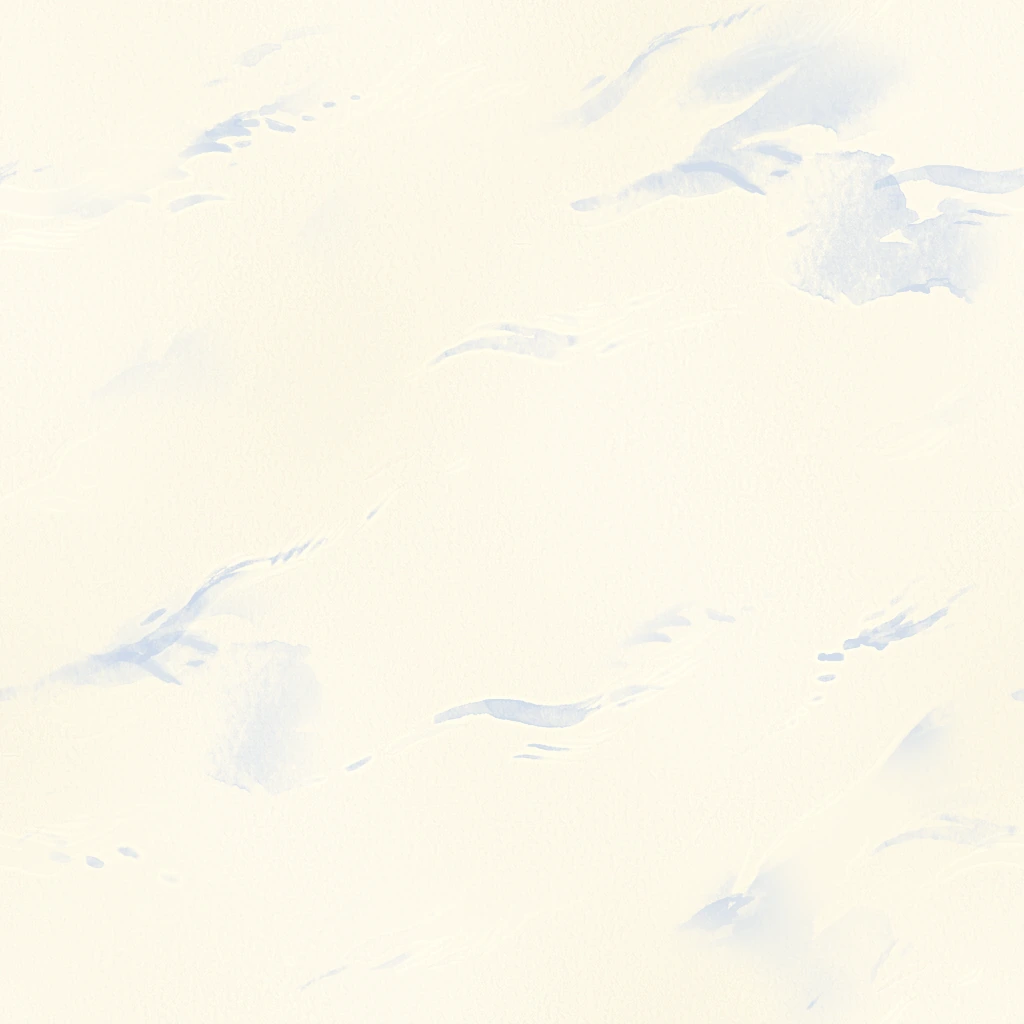
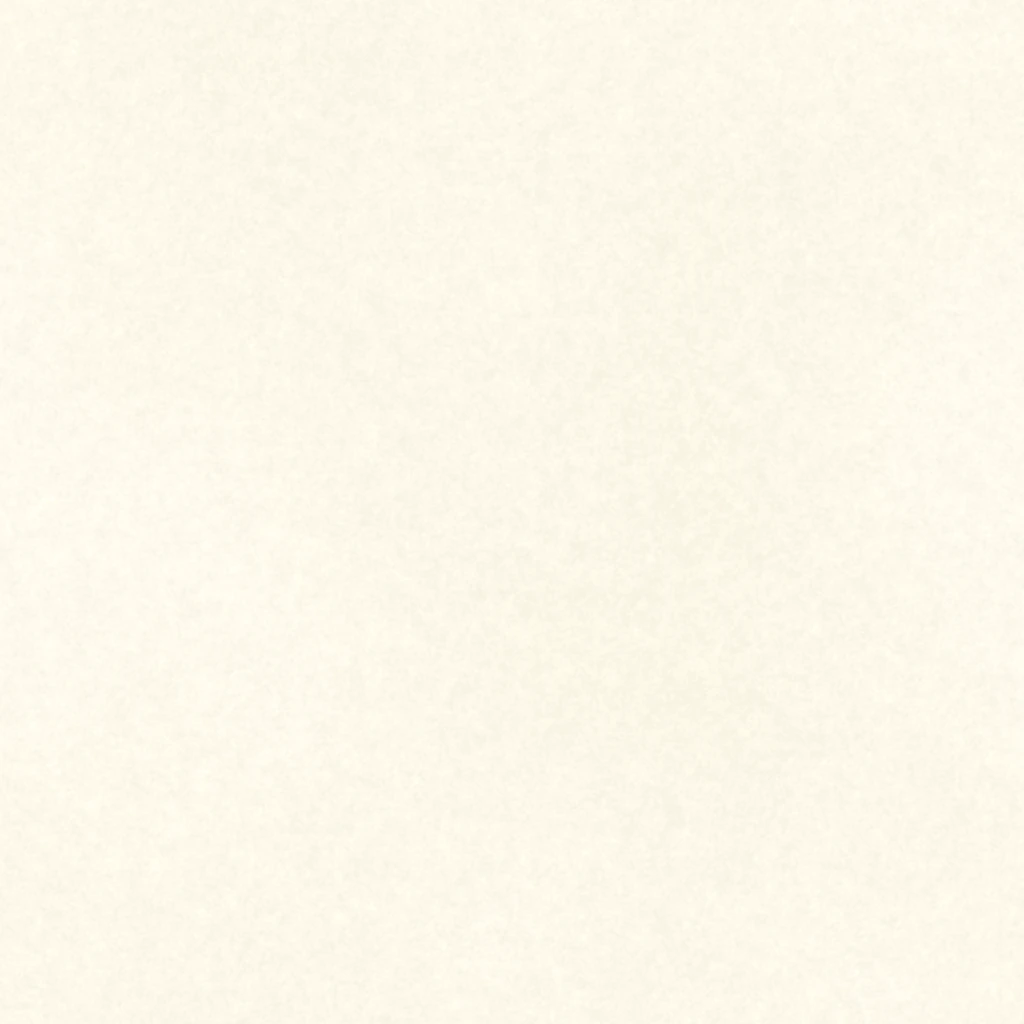
fix(arctic): make snow texture spotless cold-press grain without painted smudges

diff --git a/web/themes/arctic/arctic-shader.js b/web/themes/arctic/arctic-shader.js
@@ -149,19 +149,11 @@ vec3 evalAurora(vec2 pCss, float t) {
   return (colA * bandA * 0.85 + colB * bandB * 0.65) * curtain;
 }
 
-// Crisp, airy, zero-ghosting Studio Ghibli watercolor snowfield sampling (1024px seamless tile)
-// Uses a clean macro patch transition so delicate dry-brush snow wisps stay 100% sharp with zero double-exposure & zero 4K repeat!
+// Spotless, seamless Arches cold-press snow paper sampling (1024px Fourier-periodic tooth, zero blotches or streaks!)
 vec3 samplePaintedSnow(vec2 pCss) {
-  vec2 warp = (texN(pCss + vec2(uSeed * 13.0, -uSeed * 7.0), 0.00068).rg - 0.5) * 42.0;
-  vec2 uv1  = (pCss + warp) / 920.0;
-  // Gentle +10 deg non-commensurate macro patch so washes stay sparse, airy & coherent
-  vec2 rP   = vec2(pCss.x * 0.985 - pCss.y * 0.174, pCss.x * 0.174 + pCss.y * 0.985);
-  vec2 uv2  = (rP - warp * 0.45 + vec2(419.0, -263.0)) / 1360.0;
-  vec3 s1   = texture(uSnowTex, uv1).rgb;
-  vec3 s2   = texture(uSnowTex, uv2).rgb;
-  // Clean open-snow patch selector: avoids 50/50 blurring of delicate dry-brush wisps!
-  float patchW = smoothstep(0.35, 0.65, texN(pCss + vec2(uSeed * 9.0, -uSeed * 5.0), 0.00074).r);
-  return mix(s1, s2, patchW);
+  vec3 s1 = texture(uSnowTex, pCss / 640.0).rgb;
+  vec3 s2 = texture(uSnowTex, (pCss + vec2(271.0, -193.0)) / 1040.0).rgb;
+  return mix(s1, s2, 0.42);
 }
 
 // Gentle wide-wavelength rolling snow-shelf elevation (keeps open warm ivory snow airy & uncluttered!)

diff --git a/web/themes/arctic/arctic-scene.js b/web/themes/arctic/arctic-scene.js
@@ -175,7 +175,7 @@ const onPaintReady = () => {
   if (paused) renderFrame(simTime, false);
 };
 const waterTex  = createPaintTexture(gl, 'assets/arctic-water-tex.webp?v=wc1',      [6, 56, 82, 255],     true,  onPaintReady);
-const snowTex   = createPaintTexture(gl, 'assets/arctic-snow-tex.webp?v=ghibli4',   [252, 248, 234, 255], true,  onPaintReady);
+const snowTex   = createPaintTexture(gl, 'assets/arctic-snow-tex.webp?v=clean5',    [253, 248, 235, 255], true,  onPaintReady);
 const floesTex  = createPaintTexture(gl, 'assets/arctic-floes-atlas.webp?v=wc1',    [0, 0, 0, 0],         false, onPaintReady);
 
 function sampleSdfB(px, py) {
